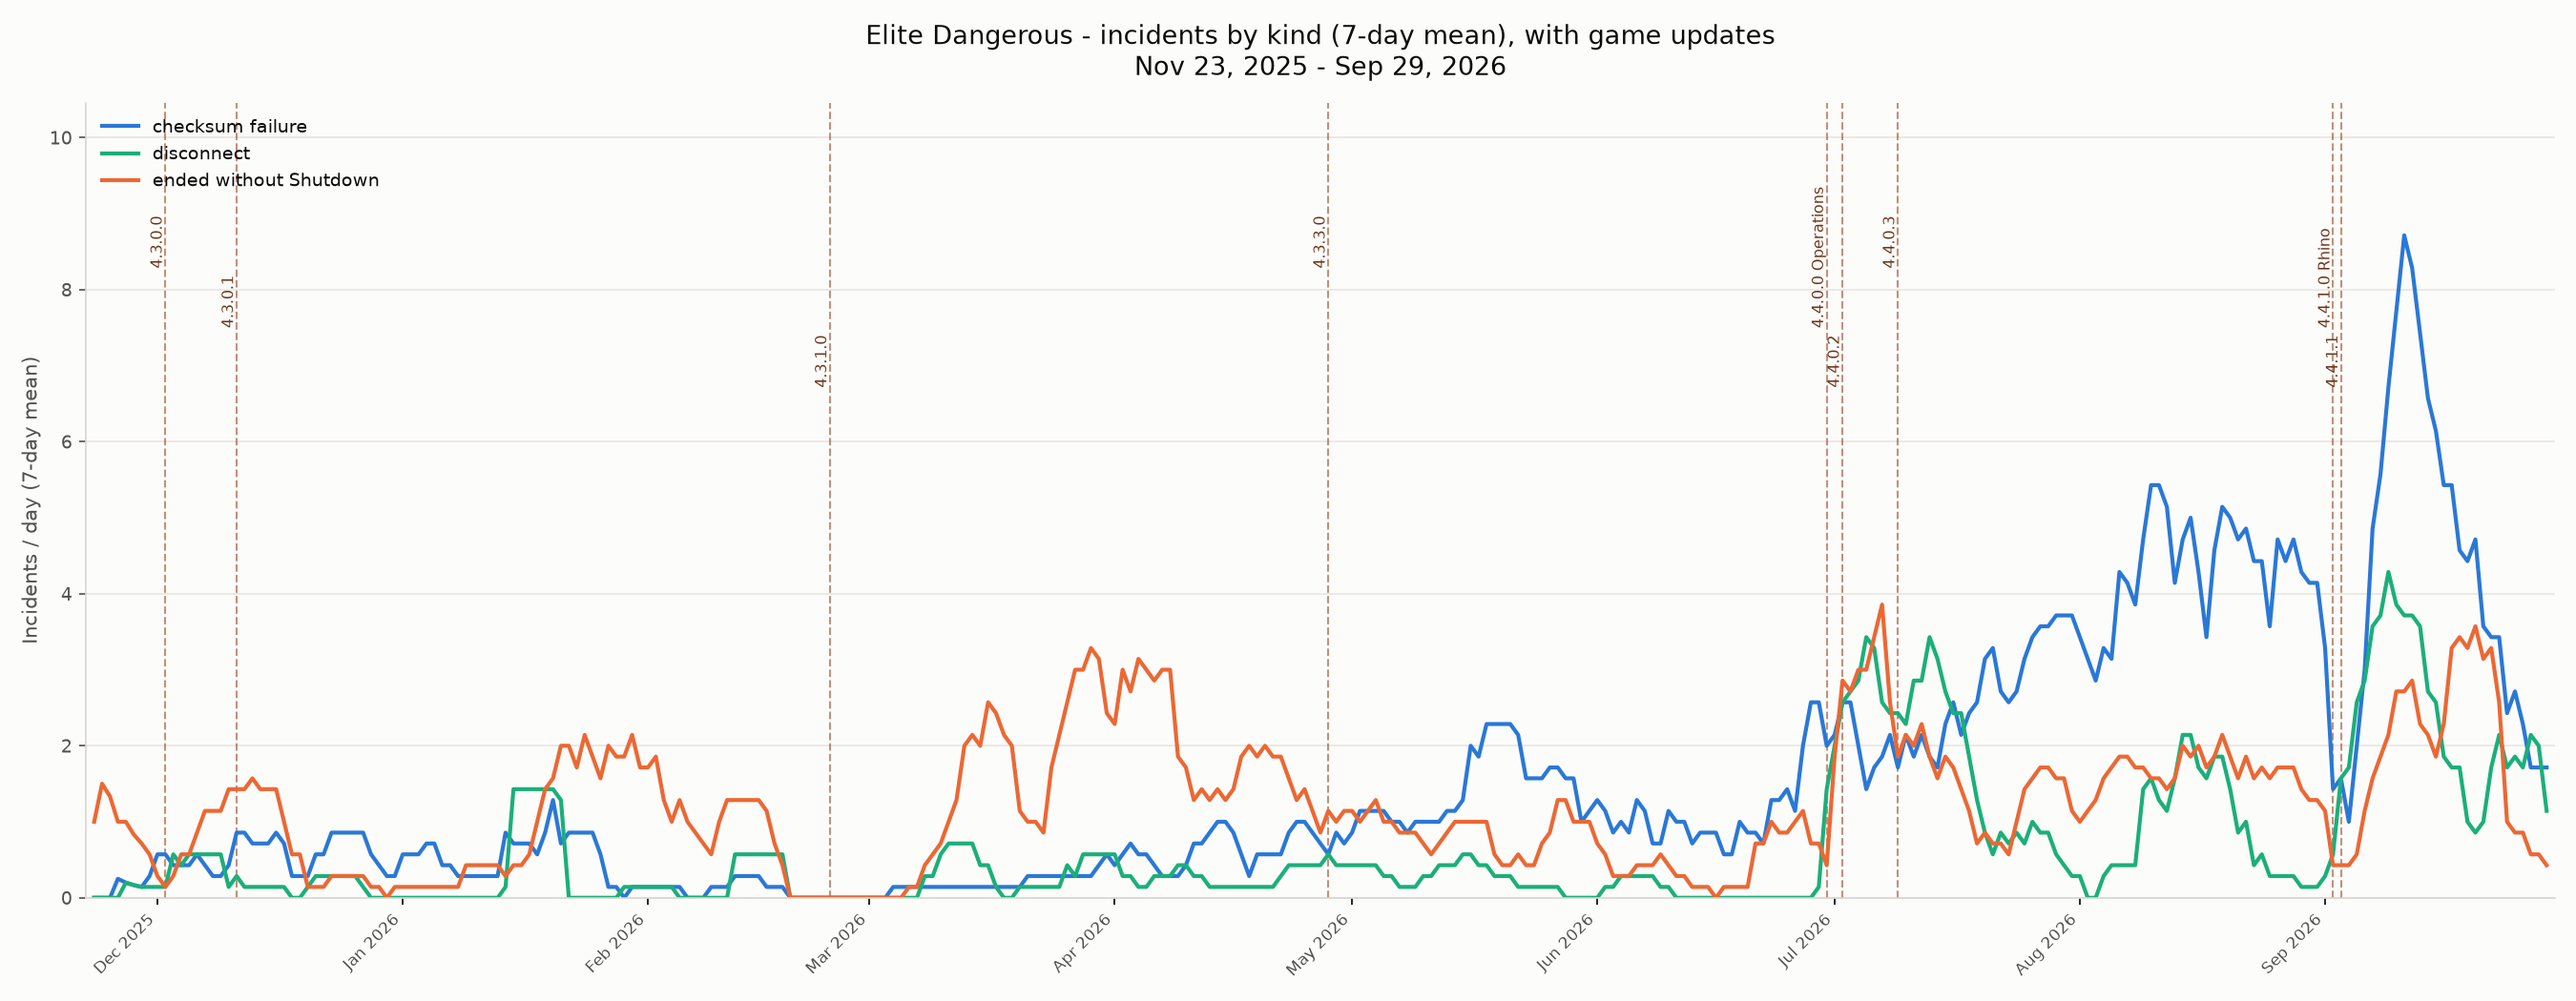
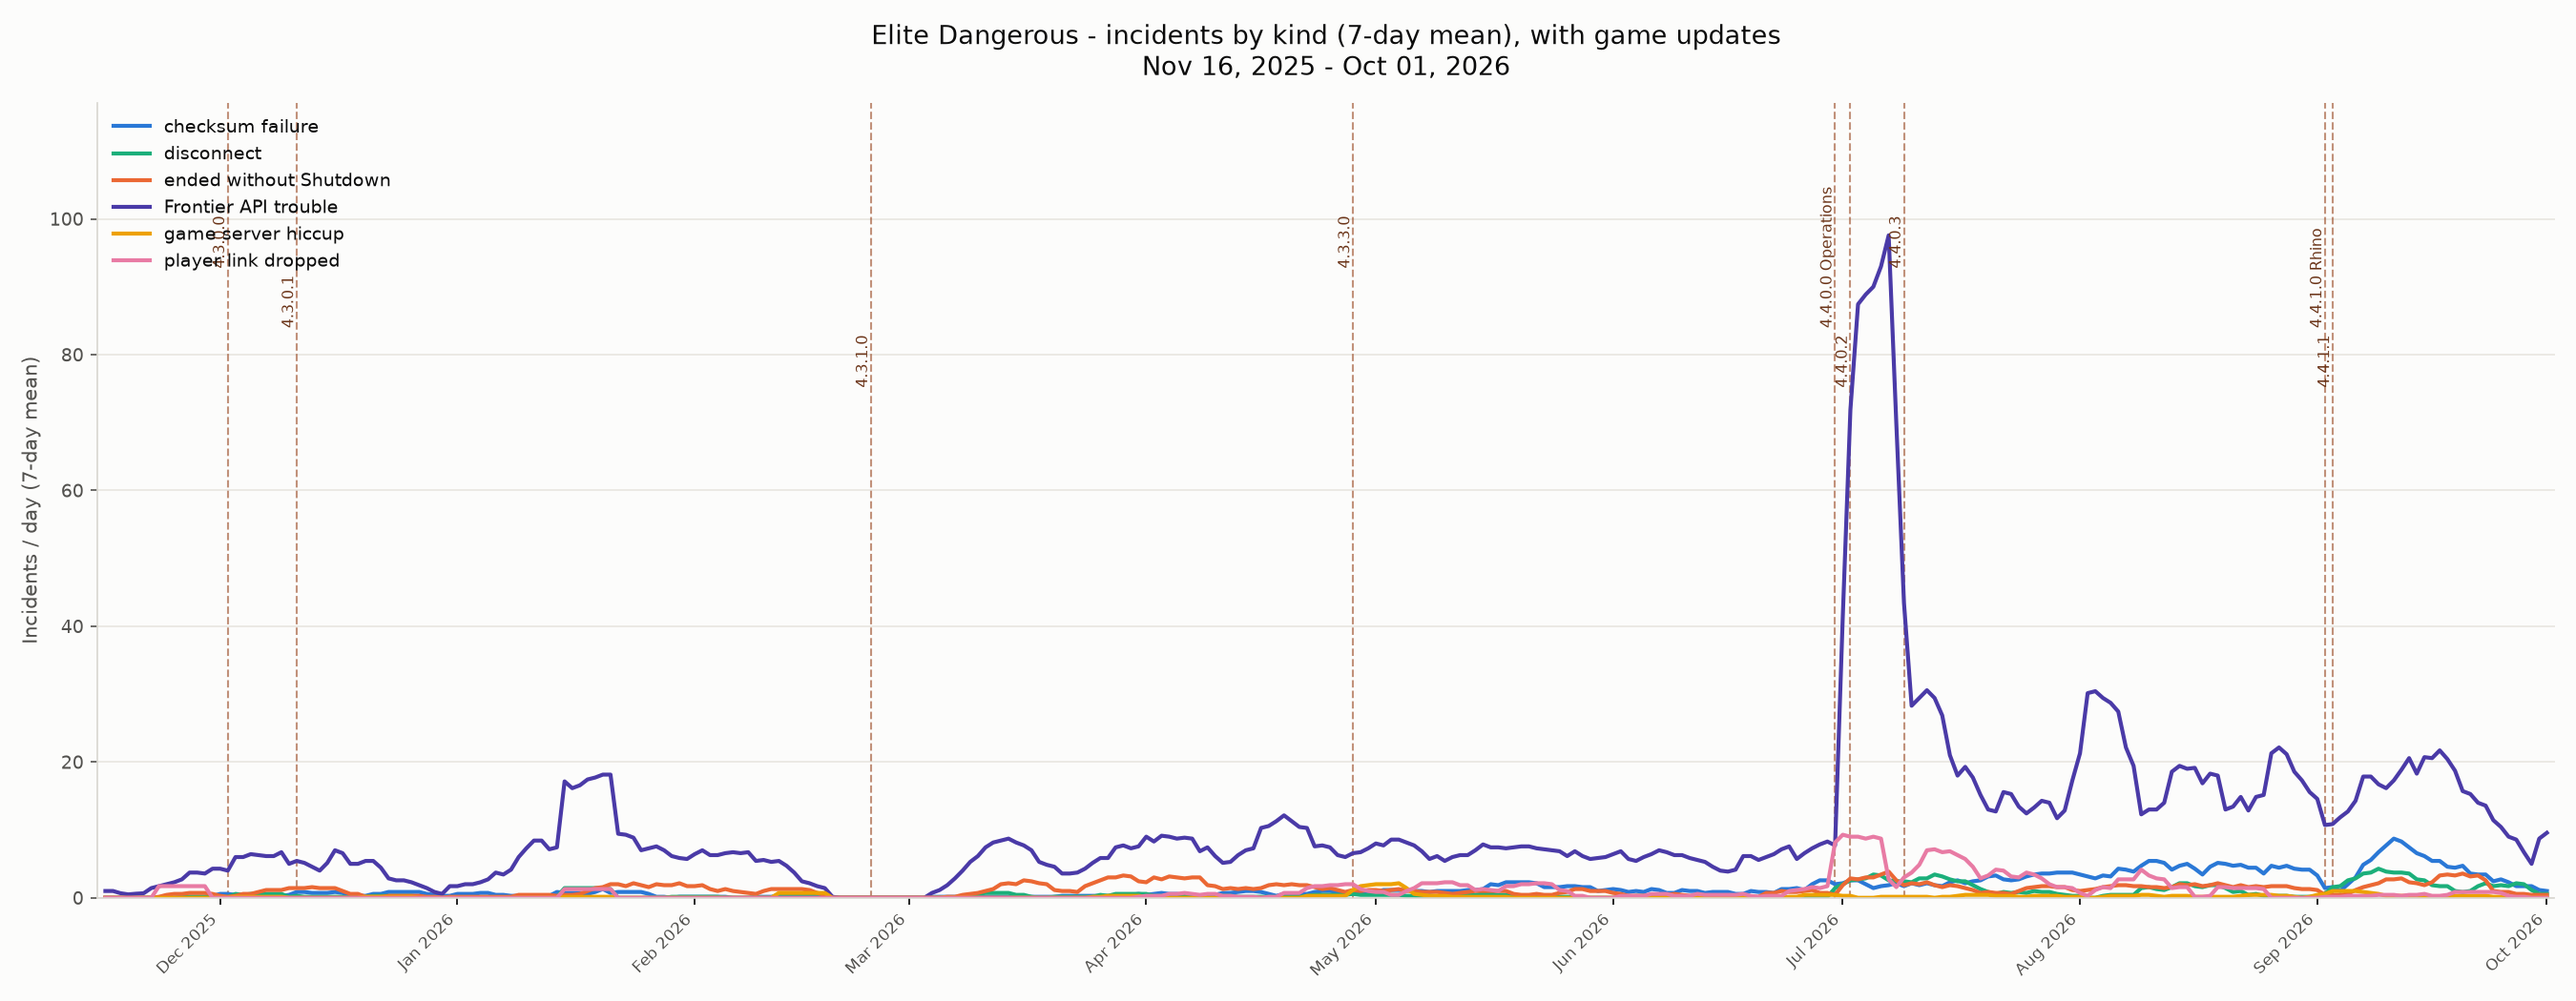
Incident charts: the trouble the game went on through on all charts
The daily bars, the history and the by-kind chart now carry, beside the
failures, game server hiccups with no disconnect within two minutes, runs
of failed or slow web requests, and another player's link given up. A
hiccup a disconnect followed is that disconnect's and is not counted
twice. The history's scale follows the 7-day means, its axis starts where
the history does.

diff --git a/tools/incident_charts/plot_incidents.py b/tools/incident_charts/plot_incidents.py
@@ -1,9 +1,15 @@
 #!/usr/bin/env python3
-"""Draws three charts of connection incidents from a CSV of occurred_utc,category[,...] rows.
+"""Draws charts of connection incidents from a CSV of occurred_utc,category[,...] rows.
 
   incidents_daily.png    - stacked bars, one per day, of a chosen period (the last 120 days by default)
-  incidents_history.png  - the whole history, all kinds summed: the daily count and its 7-day mean
+  incidents_history.png  - the whole history: failures and the trouble the game went on through, each
+                           as a 7-day mean, over the daily count of all
   incidents_by_type.png  - the whole history, the 7-day mean of each kind
+
+The first three show the failures - a disconnect, checksum failures, a session ended without Shutdown -
+and beside them the trouble that ended in none: the game server's hiccups (packets lost, a server given
+up) with no disconnect within two minutes after, the web API failing or slow, and another player's link
+given up. A hiccup that a disconnect did follow belongs to that disconnect and is not counted twice.
   incidents_per_hour.png - the whole history, a panel for each kind of trouble, the ones the game goes on
                            through among them: incidents per hour of play over 28 days (needs the
                            sessions.csv extract_incidents.py writes)
@@ -26,11 +32,19 @@ import matplotlib.dates as mdates  # noqa: E402
 import matplotlib.pyplot as plt  # noqa: E402
 
 KINDS = ["checksum failure", "disconnect", "ended without Shutdown"]
+# the trouble the game went on through, grouped for the first three charts
+WENT_ON = ["Frontier API trouble", "game server hiccup", "player link dropped"]
+# a hiccup this close before a disconnect belongs to it; API episodes this close together are one
+HICCUP_BEFORE_DISCONNECT = dt.timedelta(minutes=2)
+API_GAP = dt.timedelta(seconds=60)
 # what the game goes on through, as a rule - only on the per-hour chart
 DEGRADED = ["server dropped", "packets lost", "player link dropped", "API failure", "API slow"]
 COLOURS = {"checksum failure": "#2a78d6", "disconnect": "#1baf7a", "ended without Shutdown": "#eb6834",
            "server dropped": "#e34948", "packets lost": "#eda100", "player link dropped": "#e87ba4",
-           "API failure": "#4a3aa7", "API slow": "#008300"}
+           "API failure": "#4a3aa7", "API slow": "#008300",
+           "Frontier API trouble": "#4a3aa7", "game server hiccup": "#eda100"}
+FAILURES_COLOUR = "#2a78d6"
+WENT_ON_COLOUR = "#eb6834"
 PER_HOUR = ["disconnect", "server dropped", "packets lost", "player link dropped", "API failure", "API slow"]
 TITLES = {"disconnect": "disconnect - the session lost",
           "server dropped": "server dropped - an EDServer given up, a disconnect follows 2 times in 3",
@@ -56,13 +70,44 @@ def kind_of(category):
 
 
 def load(path, zone):
-    """(local date, kind) of every row - a day is the player's day, so the time is moved to local time."""
+    """(local date, kind) of every row - a day is the player's day, so the time is moved to local time -
+    and (moment, kind) for the grouping of the trouble the game went on through."""
     rows = []
+    moments = []
     with open(path, encoding="utf-8") as f:
         for row in csv.DictReader(f):
             moment = dt.datetime.strptime(row["occurred_utc"], "%Y-%m-%dT%H:%M:%SZ").replace(tzinfo=dt.timezone.utc)
             rows.append((moment.astimezone(zone).date(), kind_of(row["category"])))
-    return rows
+            moments.append((moment, kind_of(row["category"])))
+    return rows, moments
+
+
+def grouped(moments, zone):
+    """(local date, kind) with the failures as they are and the trouble the game went on through grouped:
+    a game server hiccup with no disconnect within two minutes after it (hiccups within two minutes of
+    each other are one), a run of failed or slow web requests (one within a minute of the last is the
+    same run), another player's link given up."""
+    moments = sorted(moments)
+    disconnects = [m for m, k in moments if k == "disconnect"]
+    out = []
+    last_hiccup = last_api = None
+    di = 0
+    for moment, kind in moments:
+        if kind in KINDS or kind == "player link dropped":
+            out.append((moment.astimezone(zone).date(), kind))
+        elif kind in ("packets lost", "server dropped"):
+            while di < len(disconnects) and disconnects[di] < moment:
+                di += 1
+            if di < len(disconnects) and disconnects[di] - moment <= HICCUP_BEFORE_DISCONNECT:
+                continue
+            if last_hiccup is None or moment - last_hiccup > HICCUP_BEFORE_DISCONNECT:
+                out.append((moment.astimezone(zone).date(), "game server hiccup"))
+            last_hiccup = moment
+        elif kind in ("API failure", "API slow"):
+            if last_api is None or moment - last_api > API_GAP:
+                out.append((moment.astimezone(zone).date(), "Frontier API trouble"))
+            last_api = moment
+    return out
 
 
 def load_updates(path):
@@ -70,6 +115,15 @@ def load_updates(path):
         return []
     with open(path, encoding="utf-8") as f:
         return [(dt.date.fromisoformat(row["date"]), row["label"]) for row in csv.DictReader(f)]
+
+
+def history_start(rows):
+    """The first day with a stretch of history after it - a lone old netLog would stretch the axis by a year."""
+    dates = sorted(d for d, _ in rows)
+    for i, date in enumerate(dates):
+        if sum(1 for d in dates[i : i + 50] if d - date < dt.timedelta(days=28)) >= 5:
+            return date
+    return dates[0]
 
 
 def days(start, end):
@@ -133,7 +187,7 @@ def daily_chart(rows, start, end, updates, out):
             per_day[date][kind] += 1
     fig, ax = figure(16, 6)
     bottom = [0] * len(dates)
-    for kind in KINDS:
+    for kind in KINDS + WENT_ON:
         values = [per_day[d][kind] for d in dates]
         ax.bar(dates, values, bottom=bottom, width=1.0, color=COLOURS[kind], label=kind, linewidth=0)
         bottom = [b + v for b, v in zip(bottom, values)]
@@ -143,29 +197,40 @@ def daily_chart(rows, start, end, updates, out):
 
 
 def history_chart(rows, updates, out):
-    start, end = min(d for d, _ in rows), max(d for d, _ in rows)
+    start, end = history_start(rows), max(d for d, _ in rows)
     dates = days(start, end)
     per_day = collections.Counter(d for d, _ in rows)
+    failures = collections.Counter(d for d, k in rows if k in KINDS)
+    went_on = collections.Counter(d for d, k in rows if k in WENT_ON)
     counts = [per_day[d] for d in dates]
     fig, ax = figure(18, 7)
-    ax.plot(dates, counts, color="#86b6ef", linewidth=0.9, alpha=0.8, label="incidents per day")
-    ax.plot(dates, trailing_mean(counts), color="#2a78d6", linewidth=2.2, label="7-day mean")
-    top = max(counts, default=1) or 1
+    ax.plot(dates, counts, color="#c3c2b7", linewidth=0.8, alpha=0.9, label="all, per day")
+    ax.plot(dates, trailing_mean([failures[d] for d in dates]), color=FAILURES_COLOUR, linewidth=2.2,
+            label="failures - disconnect, checksum, no Shutdown (7-day mean)")
+    ax.plot(dates, trailing_mean([went_on[d] for d in dates]), color=WENT_ON_COLOUR, linewidth=2.2,
+            label="the game went on - server hiccup, API trouble, player link (7-day mean)")
+    # the scale follows the means - a single day's burst would flatten them; it is clipped and named instead
+    top = max(max(trailing_mean([failures[d] for d in dates]), default=0),
+              max(trailing_mean([went_on[d] for d in dates]), default=0)) * 1.3 or 1
+    peak = max(dates, key=lambda d: per_day[d])
+    if per_day[peak] > top:
+        ax.annotate(f"{per_day[peak]} on {peak:%b %d, %Y}", xy=(peak, top), xytext=(6, -12),
+                    textcoords="offset points", fontsize=8, color=MUTED)
     mark_updates(ax, updates, start, end, top)
-    ax.set_ylim(0, top * 1.15)
-    finish(fig, ax, f"Elite Dangerous - incidents per day, all kinds, with game updates\n{span(start, end)}",
-           "Incidents / day", start, end, mdates.MonthLocator(), "%b %Y", out)
+    ax.set_ylim(0, top)
+    finish(fig, ax, f"Elite Dangerous - incidents per day, failures and trouble the game went on through, with game updates\n"
+           f"{span(start, end)}", "Incidents / day", start, end, mdates.MonthLocator(), "%b %Y", out)
 
 
 def by_type_chart(rows, updates, out):
-    start, end = min(d for d, _ in rows), max(d for d, _ in rows)
+    start, end = history_start(rows), max(d for d, _ in rows)
     dates = days(start, end)
     per_day = collections.defaultdict(collections.Counter)
     for date, kind in rows:
         per_day[date][kind] += 1
     fig, ax = figure(18, 7)
     top = 0.0
-    for kind in KINDS:
+    for kind in KINDS + WENT_ON:
         mean = trailing_mean([per_day[d][kind] for d in dates])
         ax.plot(dates, mean, color=COLOURS[kind], linewidth=2.0, label=kind)
         top = max(top, max(mean, default=0))
@@ -260,19 +325,19 @@ def main():
     args = parser.parse_args()
 
     zone = ZoneInfo(args.tz) if args.tz else dt.datetime.now().astimezone().tzinfo
-    rows = load(args.csv, zone)
+    rows, moments = load(args.csv, zone)
     if not rows:
         raise SystemExit("no incidents in the file")
     updates = load_updates(args.updates)
     end = args.end or max(d for d, _ in rows)
     start = args.start or end - dt.timedelta(days=119)
     args.out.mkdir(parents=True, exist_ok=True)
-    # the first three keep to the kinds they always showed - the trouble the game goes on through has a
-    # chart of its own, where the hours played set the scale
-    classic = [row for row in rows if row[1] in KINDS]
-    daily_chart(classic, start, end, updates, args.out / "incidents_daily.png")
-    history_chart(classic, updates, args.out / "incidents_history.png")
-    by_type_chart(classic, updates, args.out / "incidents_by_type.png")
+    # the first three take the trouble the game went on through grouped; the per-hour chart has each kind
+    # in a panel of its own
+    both = grouped(moments, zone)
+    daily_chart(both, start, end, updates, args.out / "incidents_daily.png")
+    history_chart(both, updates, args.out / "incidents_history.png")
+    by_type_chart(both, updates, args.out / "incidents_by_type.png")
     hours = load_hours(args.sessions or args.csv.with_name("sessions.csv"), zone)
     if hours:
         per_hour_chart(rows, hours, updates, args.out / "incidents_per_hour.png")

diff --git a/doc/incident_charts.md b/doc/incident_charts.md
@@ -9,13 +9,20 @@ same way.
 
 The charts below are from one commander's history, November 2025 to September 2026.
 
-![Incidents per day, June to September 2026](images/incidents_daily.png)
+![Incidents per day, June to October 2026](images/incidents_daily.png)
 
 ![Incidents per day over the whole history, with game updates](images/incidents_history.png)
 
 ![Incidents by kind, 7-day mean, with game updates](images/incidents_by_type.png)
 
 ![Incidents per hour the game ran, a panel for each kind, with game updates](images/incidents_per_hour.png)
+
+Beside the failures - a disconnect, checksum failures, a session ended without Shutdown - the first three
+show the trouble that ended in none: a hiccup of the game server (packets lost, a server given up) with no
+disconnect within two minutes after it, a run of failed or slow web requests to Frontier's API, and
+another player's link given up. A hiccup that a disconnect did follow belongs to that disconnect and is
+not counted twice. On the history chart the scale follows the 7-day means; a day's burst above it is
+clipped and named.
 
 The per-hour chart is the fair one where play time varies: a day of ten hours is not worse than a day of
 one for having more incidents. Its kinds are explained in [network incidents](network_incidents.md#while-it-happens);
